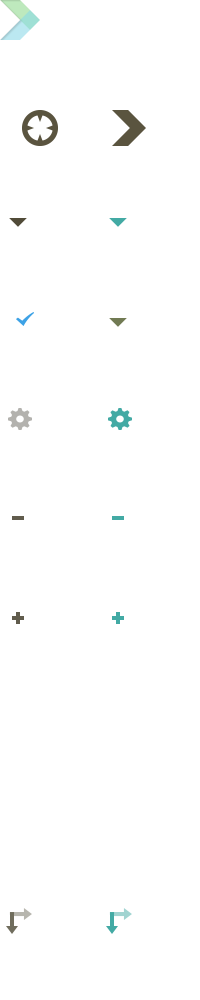
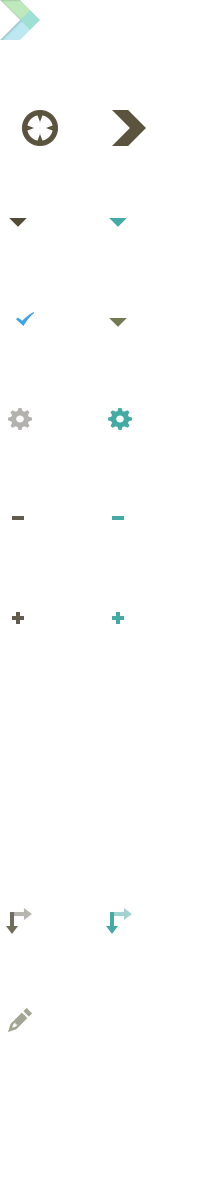
styling of edit concept button

diff --git a/app/assets/stylesheets/create_concept.css.scss b/app/assets/stylesheets/create_concept.css.scss
@@ -19,9 +19,18 @@
       background-position: -3px -354px;
     };
   }
-  
-  &.collapsed {
-    display:none;
+  &.edit-concept {
+    padding-left: 6px;
+    position: absolute;
+    right: 0;
+    top:-15px;
+    text-transform: uppercase;
+    &:before {
+      @include before-icon;
+      float: left;
+      height: 12px;
+      background-position: -54px -504px;
+    };
   }
 }
 
@@ -102,10 +111,10 @@ form.create {
   
 }
 
-// FIX FEATURE TESTS
+/*// FIX FEATURE TESTS
 div.concept section  h3 {
   text-transform: uppercase;
-}
+}*/
 
 div.concept.new {
   
@@ -114,7 +123,6 @@ div.concept.new {
   }
   
   h3 {
-    @include toggle;
     padding: 0 7px 0 5px;
     margin: 2px 0 5px 0;
     color: $browncolor;
@@ -138,8 +146,6 @@ div.concept.new {
     float: right;
     position: relative;
     top: -14px;
-/*    position: absolute;
-    right: 10px;*/
     
     &:before {
       @include before-icon;
@@ -171,20 +177,13 @@ div.concept.new {
   .properties {
     position: relative;
     padding: 3px 0 30px 0;
-    
-    a.add-property {
-/*      top: 6px;*/
-    }
   }
   
   .terms {
     position: relative;
     @include retina-separator;
     padding-top: 10px;
-    
-    a.add-term {
-/*      top: 14px;*/
-    }
+
     .term {
       background-image: none;
     }

diff --git a/app/assets/stylesheets/_config.css.scss b/app/assets/stylesheets/_config.css.scss
@@ -82,8 +82,6 @@ $widget-width: 320px;
     height: 4px;
     top: 6px;
     left: 4px;
-/*    margin-right: 5px;
-    margin-bottom: 2px;*/
     border: 1px solid lighten($text-color, 20%);
     @include border-radius(4px);
   };  
@@ -101,7 +99,7 @@ $widget-width: 320px;
   background-image: image-url('layout/icons.png');
   @media only screen and (-webkit-min-device-pixel-ratio: 2) {
       background-image: image-url('layout/icons@2x.png');
-      @include background-size(100px 500px);
+      @include background-size(100px 600px);
   } 
 }
 

diff --git a/app/assets/stylesheets/edit_concept.css.scss b/app/assets/stylesheets/edit_concept.css.scss
@@ -1,0 +1,7 @@
+@import '_config';
+@import 'compass/css3';
+
+.concept {
+  
+  
+}
